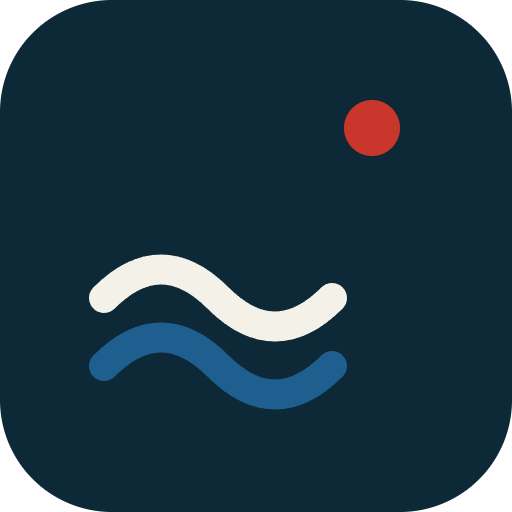
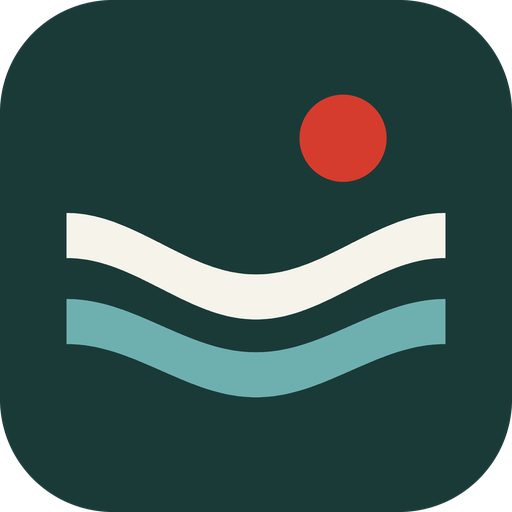
Adopt the brand mark and correct stale deployment facts
The app icon, favicon, PWA icons, and OG card were drawn from a retired navy
and blue palette, and the OG card advertised an old hostname. They are now
generated from the current mark and rendered from one script, so the geometry
cannot drift between sizes. The wordmark in both shells uses the same asset.

Documentation follow-up: live URLs point at the deployment that actually serves
this repository, the LICENSE holder names the team instead of the retired CSEW
label, the competition checklist reflects what shipped, and the proposal's
background gains a published reference plus a BMKG source.

Changed region(s): [[0.125, 0.4062, 0.875, 0.8125], [0.5625, 0.1562, 0.7812, 0.375]]

diff --git a/frontend/app/page.tsx b/frontend/app/page.tsx
@@ -9,12 +9,12 @@ import {
   Ship,
   ShieldCheck,
   TriangleAlert,
-  Waves,
   XCircle,
 } from "lucide-react";
 import type { Metadata } from "next";
 import Link from "next/link";
 
+import { Logo } from "@/components/logo";
 import { apiGet } from "@/lib/api";
 import { assessConditions, type Level } from "@/lib/coastal";
 import { cn, formatAge } from "@/lib/format";
@@ -90,9 +90,7 @@ const TRUST = [
 function Wordmark() {
   return (
     <Link href="/" className="flex items-center gap-2.5 text-ink">
-      <span className="grid h-9 w-9 place-items-center rounded-[10px] bg-signal text-white">
-        <Waves className="h-[19px] w-[19px]" strokeWidth={2} aria-hidden />
-      </span>
+      <Logo size={36} />
       <span className="font-display text-[24px] leading-none font-semibold tracking-[-0.01em]">
         PantauPesisir
       </span>
@@ -498,9 +496,7 @@ export default function LandingPage() {
         <div className="container-x grid gap-8 py-10 md:grid-cols-[1.4fr_1fr_1fr]">
           <div>
             <Link href="/" className="flex items-center gap-2.5 text-ink">
-              <span className="grid h-9 w-9 place-items-center rounded-[10px] bg-signal text-white">
-                <Waves className="h-[19px] w-[19px]" strokeWidth={2} aria-hidden />
-              </span>
+              <Logo size={36} />
               <span className="font-display text-[24px] leading-none font-semibold tracking-[-0.01em]">
                 PantauPesisir
               </span>

diff --git a/frontend/components/dashboard/shell.tsx b/frontend/components/dashboard/shell.tsx
@@ -18,6 +18,7 @@ import { useEffect, useState } from "react";
 
 import type { LucideIcon } from "lucide-react";
 
+import { Logo } from "@/components/logo";
 import { cn, formatShortWib } from "@/lib/format";
 import { useApi } from "@/lib/hooks";
 import type { SystemHealth } from "@/lib/types";
@@ -44,9 +45,7 @@ const CONSOLE_PREFIXES = ["/konsol", "/ocean", "/satellite", "/ai", "/sources"];
 function Wordmark({ compact = false }: { compact?: boolean }) {
   return (
     <Link href="/" className="flex items-center gap-2.5" aria-label="PantauPesisir, beranda">
-      <span className="grid h-8 w-8 place-items-center rounded-[9px] bg-signal text-white">
-        <Waves className="h-[18px] w-[18px]" strokeWidth={2} aria-hidden />
-      </span>
+      <Logo size={32} />
       <span className="font-display text-[21px] leading-none font-semibold tracking-[-0.01em]">
         {compact ? "PP" : "PantauPesisir"}
       </span>

diff --git a/frontend/components/logo.tsx b/frontend/components/logo.tsx
@@ -1,0 +1,19 @@
+/**
+ * The brand mark. Served from /logo-mark.svg so the same geometry is used by the
+ * wordmark, the favicon, and the printed proposal.
+ */
+export function Logo({ size = 36 }: { size?: number }) {
+  return (
+    // eslint-disable-next-line @next/next/no-img-element -- a static SVG mark is
+    // cheaper than running the image optimiser for a 1 KB asset.
+    <img
+      src="/logo-mark.svg"
+      alt=""
+      width={size}
+      height={size}
+      className="shrink-0 rounded-[--radius]"
+      style={{ borderRadius: size * 0.22 }}
+      aria-hidden
+    />
+  );
+}

diff --git a/backend/app/main.py b/backend/app/main.py
@@ -65,8 +65,10 @@ app = FastAPI(
         "risk rubric."
     ),
     lifespan=lifespan,
-    docs_url="/docs",
-    redoc_url="/redoc",
+    # Served under the API prefix: the Vercel entrypoint only forwards paths that
+    # start with /api/, so a root-level /docs would fall through to a 404.
+    docs_url=f"{settings.api_v1_prefix}/docs",
+    redoc_url=f"{settings.api_v1_prefix}/redoc",
     openapi_url=f"{settings.api_v1_prefix}/openapi.json",
 )
 

diff --git a/docs/COMPETITION_CHECKLIST.md b/docs/COMPETITION_CHECKLIST.md
@@ -9,15 +9,15 @@ Legenda status: ✅ selesai · 🟡 selesai sebagian / perlu tindakan tim · ⛔
 
 | Persyaratan | Status | Bukti / tindakan |
 | --- | --- | --- |
-| Aplikasi web, publik dan telah diterapkan | ⛔ | Kode sumber lengkap; terapkan `frontend/` + `backend/` + PostGIS (langkah di README §9). Memerlukan kredensial tim. |
-| Repositori GitHub/GitLab publik | ⛔ | Repositori lokal belum diinisialisasi. Jalankan `git init`, tambahkan commit secara bertahap, publikasikan. Jangan menulis ulang riwayat. |
+| Aplikasi web, publik dan telah diterapkan | ✅ | <https://pantaupesisir-three.vercel.app> (frontend) dan <https://pantaupesisir-api-lovat.vercel.app/api/v1> (API). Basis data Supabase PostgreSQL 17 + PostGIS 3.3.7. |
+| Repositori GitHub/GitLab publik | ✅ | <https://github.com/ahdikhfDev/Ahdi-Syamil-Lomba> |
 | AI terintegrasi pada setidaknya satu fitur | ✅ | Penyaringan anomali Isolation Forest + rubrik risiko transparan; laman `/ai`; model card. |
-| Situs aktif tetap tersedia hingga 30 Nov 2026 | ⛔ | Menyusul penerapan; atur pengingat dan pemeriksaan uptime. |
+| Situs aktif tetap tersedia hingga 30 Nov 2026 | 🟡 | Sudah aktif. Perlu pemeriksaan berkala sampai 30 November 2026. |
 | Tech stack gratis / templat diungkapkan | ✅ | README §12 mengungkapkan pustaka, data, dan bantuan AI. |
-| Login demo (jika login tersedia) | ✅ (n/a) | Tidak ada login pengguna. Kunci demo publik `pantaupesisir-demo-2026` didokumentasikan di README; tidak ada kredensial istimewa yang terekspos. |
+| Login demo (jika login tersedia) | ✅ (n/a) | Tidak ada login pengguna. Kunci demo publik `pantaupesisir-operator-2026` hanya membuka kendali simulator dan analisis, didokumentasikan di README; tidak ada kredensial istimewa yang terekspos. |
 | Video demo YouTube tidak publik, 3–5 menit | ⛔ | Naskah siap: `docs/DEMO_SCRIPT.md` (4:00). |
-| Proposal PDF `ITRUSH26_Nama Tim_JudulKarya.pdf` | ⛔ | Konten tersedia di README/docs; perlu pemformatan dan pengumpulan oleh tim. |
-| Pernyataan orisinalitas dan AI dalam PDF (templat penyelenggara) | ⛔ | Gunakan templat penyelenggara; ungkapkan bantuan pengodean AI dan pustaka open-source. |
+| Proposal PDF `ITRUSH26_Nama Tim_JudulKarya.pdf` | 🟡 | `docs/PROPOSAL_PantauPesisir.docx` sudah mengikuti templat resmi (BAB I-IV + Daftar Pustaka, 14 rujukan). Sisa: isi `[NAMA TIM]`, `[NIM]`, `[LOGO WEBSITE]`, lalu ekspor ke PDF dengan nama berkas yang benar. |
+| Pernyataan orisinalitas dan AI dalam PDF (templat penyelenggara) | 🟡 | `docs/PERNYATAAN_PantauPesisir.docx` sudah memakai templat resmi dengan opsi "Menggunakan AI" tercentang dan empat baris pengungkapan. Sisa: isi identitas tim, materai, ekspor PDF. |
 | Dokumen pendaftaran / bukti peserta | ⛔ | Tanggung jawab tim; tidak ditangani di repositori ini. |
 
 ## 2. Kriteria penerimaan fungsional
@@ -33,7 +33,7 @@ Legenda status: ✅ selesai · 🟡 selesai sebagian / perlu tindakan tim · ⛔
 | 7 | Analisis risiko jelas dan dapat ditelusuri | ✅ | Kaveat, versi rubrik, kata-kata rekomendasi |
 | 8 | Frontend menampilkan data backend, bukan nilai hard-coded | ✅ | Semua laman mengambil `/api/v1` |
 | 9 | Kegagalan penyedia tidak mengganggu pemantauan buoy | ✅ | Uji fallback + baris status |
-| 10 | Situs web publik dan repositori publik tersedia | ⛔ | Penerapan + publikasi repo masih tertunda |
+| 10 | Situs web publik dan repositori publik tersedia | ✅ | Frontend, API, dan repositori publik sudah live |
 | 11 | README, katalog data, model card, penyiapan lengkap | ✅ | README + `docs/*` |
 | 12 | Tidak ada klaim peringatan operasional yang keliru | ✅ | Teks, kaveat, dan model card |
 

diff --git a/README.md b/README.md
@@ -3,9 +3,9 @@
 </p>
 
 <p align="center">
-  <a href="https://pantaupesisir.vercel.app"><strong>Aplikasi live</strong></a>
+  <a href="https://pantaupesisir-three.vercel.app"><strong>Aplikasi live</strong></a>
   ·
-  <a href="https://pantaupesisir-api.vercel.app/docs"><strong>Dokumentasi API</strong></a>
+  <a href="https://pantaupesisir-api-lovat.vercel.app/api/v1/docs"><strong>Dokumentasi API</strong></a>
 </p>
 
 PantauPesisir membantu **warga pesisir dan pengunjung pantai** memutuskan apakah aman untuk ke laut:
@@ -20,7 +20,7 @@ status sumber data.
 > dapat terhubung tanpa perubahan UI atau skema.
 >
 > **Status pengumpulan:** kode sumber lengkap, 44 pengujian otomatis lulus, aplikasi live di
-> <https://pantaupesisir.vercel.app>; langkah deployment ada di bagian 9. Skrip dan daftar fitur
+> <https://pantaupesisir-three.vercel.app>; langkah deployment ada di bagian 9. Skrip dan daftar fitur
 > untuk video demo ada di `docs/DEMO_SCRIPT.md`.
 
 ---
@@ -285,8 +285,8 @@ Status per 18 November 2026:
 
 | Komponen | Status |
 | --- | --- |
-| Frontend | **Live** di <https://pantaupesisir.vercel.app> (Vercel, root `frontend/`) |
-| API | **Live** di <https://pantaupesisir-api.vercel.app> (Vercel Python, root `backend/`, entri `api/index.py`) |
+| Frontend | **Live** di <https://pantaupesisir-three.vercel.app> (Vercel, root `frontend/`) |
+| API | **Live** di <https://pantaupesisir-api-lovat.vercel.app> (Vercel Python, root `backend/`, entri `api/index.py`) |
 | Basis data | **Live** di Supabase PostgreSQL 17 + PostGIS 3.3.7 (11 tabel + `alembic_version`) |
 
 API berjalan sebagai Vercel Function. Agar muat pada batas 250 MB per fungsi, Isolation Forest
@@ -302,7 +302,7 @@ Langkah penerapan:
 1. Deploy API dari `backend/`: `vercel deploy --prod`. Variabel wajib: `DATABASE_URL` (Session
    pooler Supabase dengan `postgresql+psycopg://` dan `?sslmode=require`), `DEMO_API_KEY`,
    `API_SECRET_KEY`, `CORS_ORIGINS`, `FRESHNESS_WINDOW_SECONDS`.
-2. Set `NEXT_PUBLIC_API_BASE_URL=https://pantaupesisir-api.vercel.app/api/v1` pada project
+2. Set `NEXT_PUBLIC_API_BASE_URL=https://pantaupesisir-api-lovat.vercel.app/api/v1` pada project
    frontend, lalu redeploy. Untuk ringkasan AI, tambahkan `AI_API_KEY` (server-only),
    `AI_BASE_URL` (default `https://api.thirtystore.com/v1`), dan `AI_MODEL`
    (default `thirty/deepseek-v4.1-flash-1017`).

diff --git a/docs/PROPOSAL_DRAFT.md b/docs/PROPOSAL_DRAFT.md
@@ -5,7 +5,7 @@
 
 Tim: **[NAMA TIM]**
 Anggota: **[ANGGOTA 1]**, **[ANGGOTA 2]**
-Situs: <https://pantaupesisir.vercel.app> · API: <https://pantaupesisir-api.vercel.app/api/v1>
+Situs: <https://pantaupesisir-three.vercel.app> · API: <https://pantaupesisir-api-lovat.vercel.app/api/v1>
 Repositori: <https://github.com/ahdikhfDev/Ahdi-Syamil-Lomba>
 
 > Catatan penyusun: draf ini disusun dari isi repositori (README, `docs/`) per 18 November 2026.
@@ -463,7 +463,7 @@ gratis/terbuka), OpenStreetMap (ODbL, hanya peta dasar).
 7. Dokumentasi internal proyek: `README.md`; `docs/ARCHITECTURE.md`; `docs/AI_MODEL_CARD.md`;
    `docs/DATA_CATALOG.md`; `docs/DATA_PROVENANCE.md`; `docs/DATABASE_SCHEMA.md`;
    `docs/API_CONTRACT.md`; `docs/TEST_PLAN.md`; `docs/DEMO_SCRIPT.md`.
-8. Karya: PantauPesisir. <https://pantaupesisir.vercel.app> ·
+8. Karya: PantauPesisir. <https://pantaupesisir-three.vercel.app> ·
    <https://github.com/ahdikhfDev/Ahdi-Syamil-Lomba>
 
 ---

diff --git a/docs/HANDOFF.md b/docs/HANDOFF.md
@@ -15,8 +15,8 @@ Sudah ter-deploy dan dipakai untuk lomba:
 
 | Komponen | URL |
 | --- | --- |
-| Frontend (Next.js) | https://pantaupesisir.vercel.app |
-| API (FastAPI di Vercel) | https://pantaupesisir-api.vercel.app/api/v1 |
+| Frontend (Next.js) | https://pantaupesisir-three.vercel.app |
+| API (FastAPI di Vercel) | https://pantaupesisir-api-lovat.vercel.app/api/v1 |
 | Basis data | Supabase PostgreSQL + PostGIS (pooler port 6543) |
 
 Keduanya ter-deploy dari repo ini (`main`).
